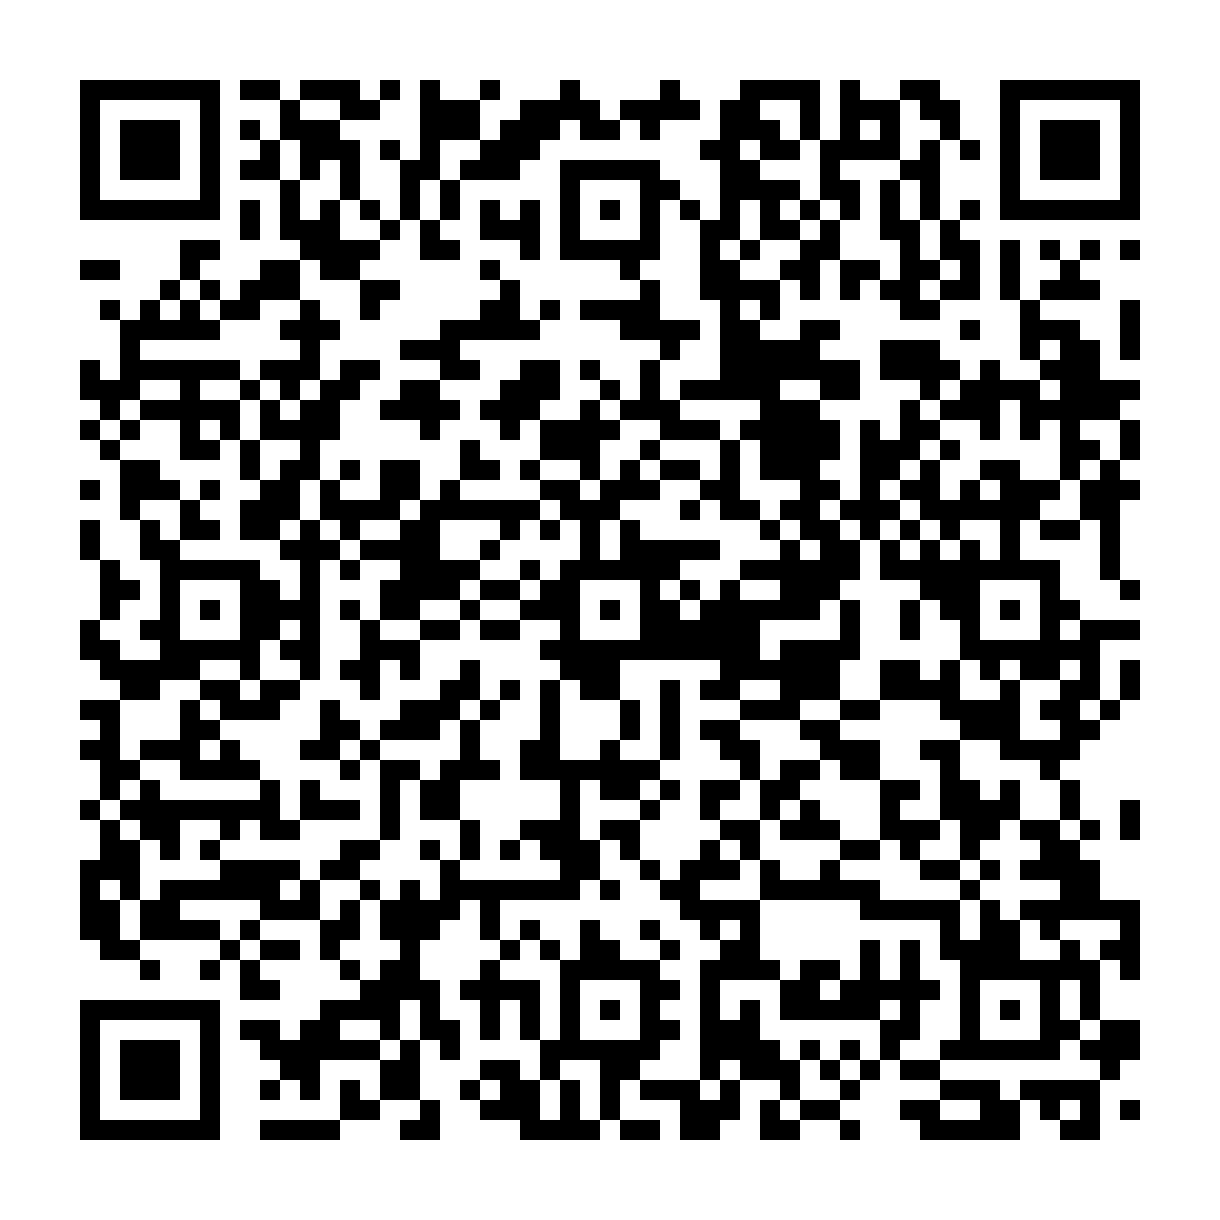
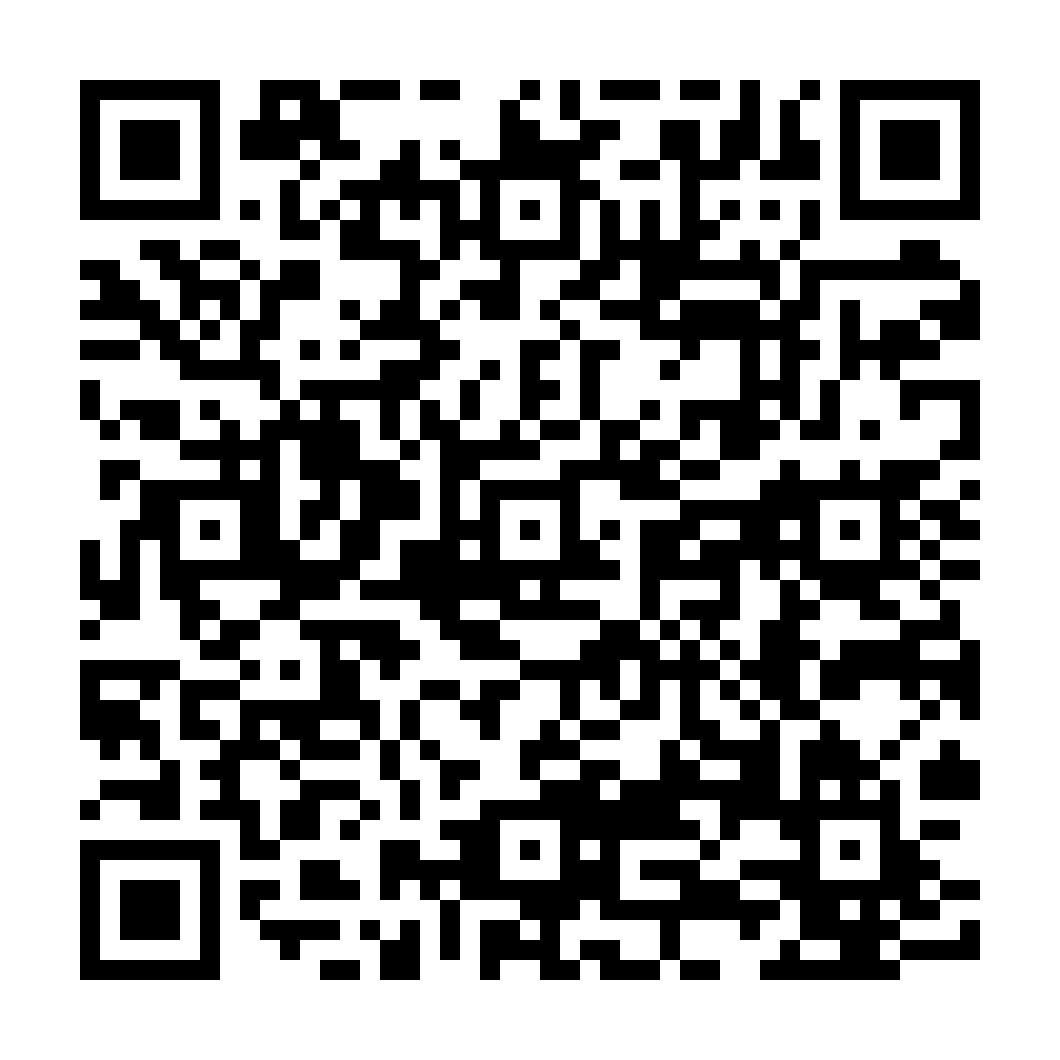
uuid,title in doc.

diff --git a/app/Controllers/Leaves.php b/app/Controllers/Leaves.php
@@ -123,6 +123,7 @@ class Leaves extends Security_Controller {
         ];
 
         $doc_data = [
+            'uuid' => $this->db->query("select replace(uuid(),'-','') as uuid;")->getRow()->uuid,
             'document_title' =>'Leave - '.$user_info->first_name.' '.$user_info->last_name,
             'ref_number' =>$template->ref_prefix.'/'.$save_id.'/'.date('m').'/'.date('Y'),
             "depertment" => $user_info->department_id,
@@ -189,7 +190,7 @@ class Leaves extends Security_Controller {
     public function saveAsPDF($driveId,$itemId) {
 
     
-        $pdfApi = "https://graph.microsoft.com/v1.0/items/$itemId/content?format=pdf";///drives/$driveId
+        $pdfApi = "https://graph.microsoft.com/v1.0/drive/items/$itemId/content?format=pdf";///drives/$driveId
         $curl = curl_init();
         $accessToken = $this->AccesToken();
         curl_setopt_array($curl, array(
@@ -266,6 +267,7 @@ class Leaves extends Security_Controller {
         ];
 
         $doc_data = [
+            'uuid' => $this->db->query("select replace(uuid(),'-','') as uuid;")->getRow()->uuid,
             'document_title' =>'Leave - '.$user_info->first_name.' '.$user_info->last_name,
             'ref_number' =>$template->ref_prefix.'/'.$save_id.'/'.date('m').'/'.date('Y'),
             "depertment" => $user_info->department_id,
@@ -463,8 +465,17 @@ class Leaves extends Security_Controller {
                 'ratio' => false,
             ]);
 
+        //save as docx
         $template->saveAs($path_absolute);
+        //save as pdf
+        // \PhpOffice\PhpWord\Settings::setPdfRendererPath('vendor/dompdf/dompdf');
+        // \PhpOffice\PhpWord\Settings::setPdfRendererName('DomPDF');
 
+        // $phpWord = \PhpOffice\PhpWord\IOFactory::load($path_absolute);
+        // $xmlWriter = \PhpOffice\PhpWord\IOFactory::createWriter($phpWord,'PDF');
+        // $xmlWriter->save(APPPATH . 'Views/documents/' . $data['id'].'_'.date('m').'_'.date('Y').'.pdf');
+
+        $save_as_name2 = $data['id'].'_'.date('m').'_'.date('Y').'.pdf';
 
         return $save_as_name;
 
@@ -502,6 +513,12 @@ class Leaves extends Security_Controller {
 
         if(file_exists(APPPATH.'Views/documents/'.$path)){
             unlink(APPPATH.'Views/documents/'.$path);
+        }
+
+        //delete .docx file also
+        $file_name = pathinfo($path,PATHINFO_FILENAME);
+        if(file_exists(APPPATH.'Views/documents/'.$file_name.'.docx')){
+            unlink(APPPATH.'Views/documents/'.$file_name.'.docx');
         }
 
         return $data;

diff --git a/app/Controllers/Visitors.php b/app/Controllers/Visitors.php
@@ -412,6 +412,7 @@ class Visitors extends Security_Controller
             ];
     
             $doc_data = [
+                'uuid' => $this->db->query("select replace(uuid(),'-','') as uuid;")->getRow()->uuid,
                 'document_title' =>'Visitors Request - '.$this->request->getPost('name'),
                 'ref_number' =>$template->ref_prefix.'/'.$save_id.'/'.date('m').'/'.date('Y'),
                 "depertment" => $this->get_user_department_id(),

diff --git a/app/Controllers/Documents.php b/app/Controllers/Documents.php
@@ -335,6 +335,7 @@ class Documents extends Security_Controller
         $template->setValues([
 
             'ref' => $data['ref_number'],
+            'title' => $data['document_title'],
             'date' => date('Y-m-d',strtotime($data['created_at'])),
 
         ]);
